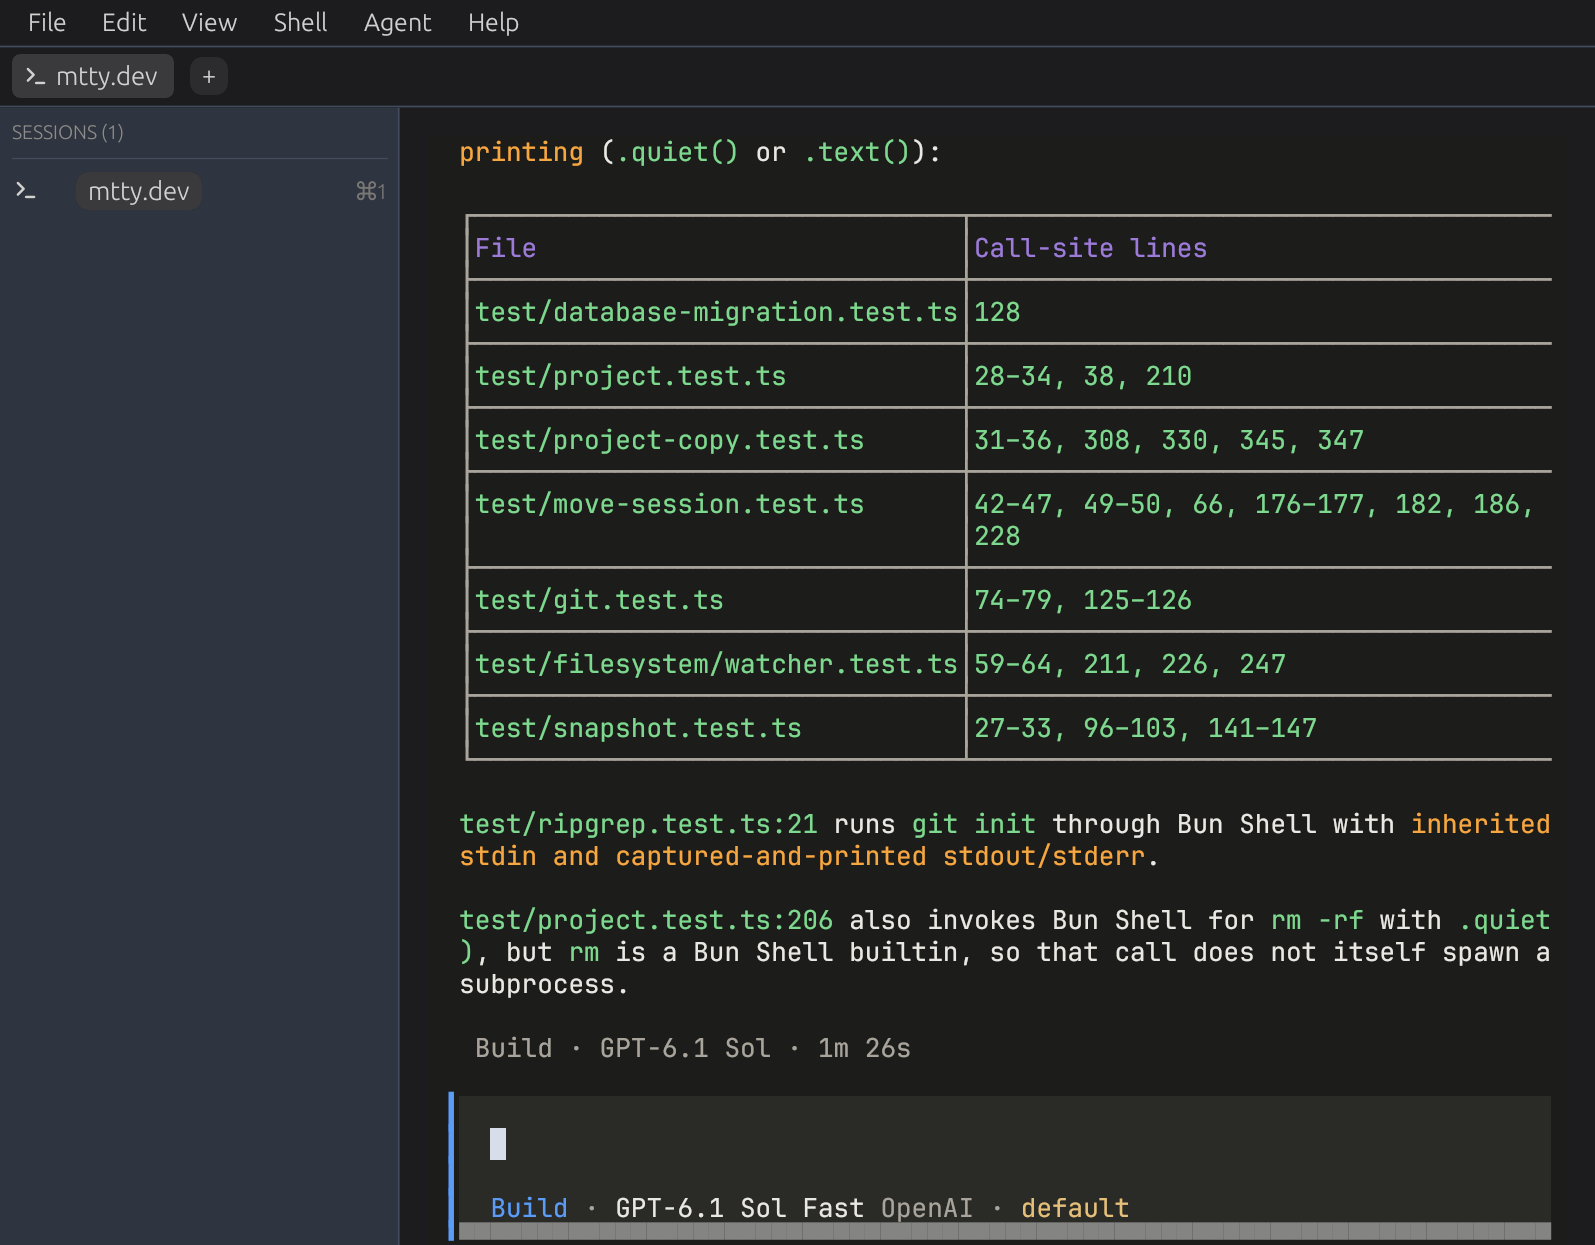
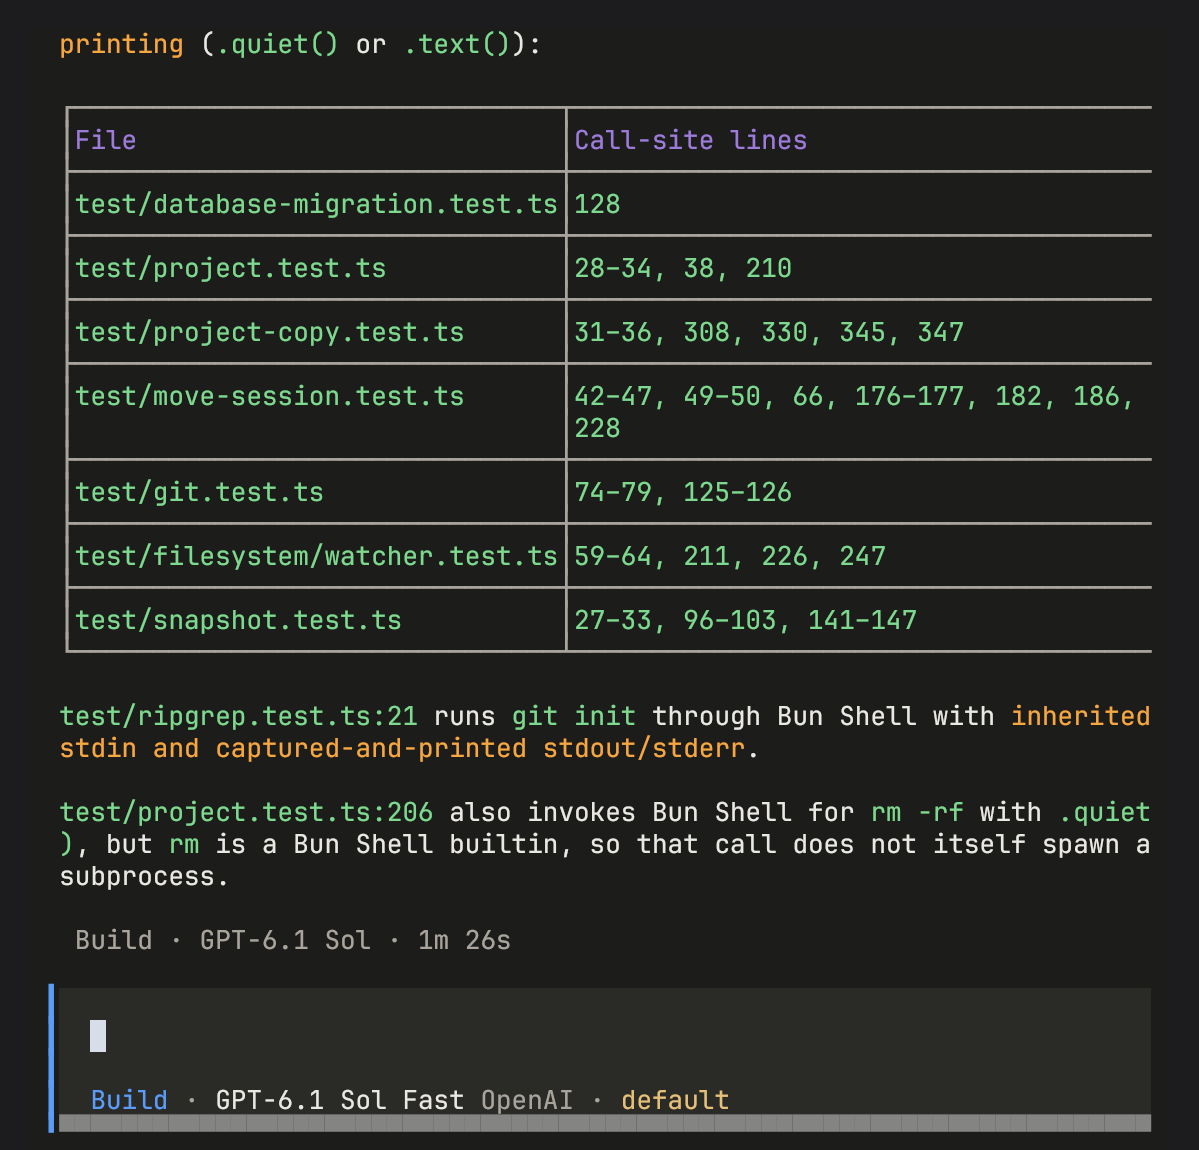
fix(miao): show miao, not the window it runs in
The first capture was a screenshot of mtty with miao inside it: mtty's
menu bar, tab strip, session sidebar and info panel all framed the
picture, while miao's own input box and status line had been cropped
away. Against the mtty page's capture of the same window, the two read
as one product.

Cropped to the pane instead, from measurements off the raw capture
rather than eyeballed coordinates. What is left is miao: the table it
produced, the turn it took, and its input box.

diff --git a/src/styles/marketing.css b/src/styles/marketing.css
@@ -364,7 +364,7 @@ code {
 /* The agent capture is nearly square. At the full column width it would push
    everything below it off the first screen, so it is capped and centred. */
 .shot.narrow img {
-  max-width: 880px;
+  max-width: 780px;
   margin-inline: auto;
 }
 
